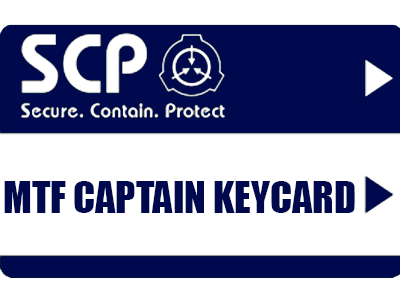
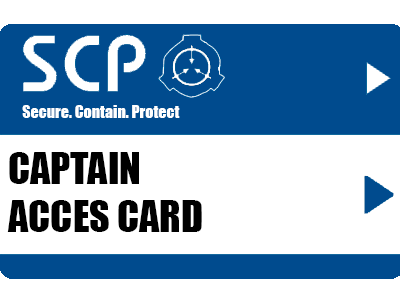
update

diff --git a/P0i3G-yf.html b/P0i3G-yf.html
@@ -9,6 +9,8 @@
     <h1>Добро пожаловать, mamont325 | Матвей</h1>
     <h2>Ваша должность: Оперативник МОГ | Operative MTF </h2>
     <h2>Ваше звание: Рядовой МОГ | Soldier MTF</h2>
+    <h2>Групировка: *неизвестно*</h2>
+    <h2>Отряд: *неизвестно*</h2>
 
     <h1 id="keycard">Ваша ключ карта: </h1>
 
@@ -16,7 +18,7 @@
 
     <div> 
 
-        <img src="./img/MTFcard.png" alt="MTF">
+        <img src="./img/MTF_ORDINARYcard.png" alt="MTF">
         <img src="./img/backside.png" alt=""> 
 
     </div>

diff --git a/uL-TGiQ7.html b/uL-TGiQ7.html
@@ -9,6 +9,8 @@
     <h1>Добро пожаловать, arrara | Артём</h1>
     <h2>Ваша должность: Оперативник МОГ | Operative MTF </h2>
     <h2>Ваше звание: Капитан МОГ | Captain MTF</h2>
+    <h2>Групировка: *неизвестно*</h2>
+    <h2>Отряд: *неизвестно*</h2>
 
     <h1 id="keycard">Ваша ключ карта: </h1>
 
